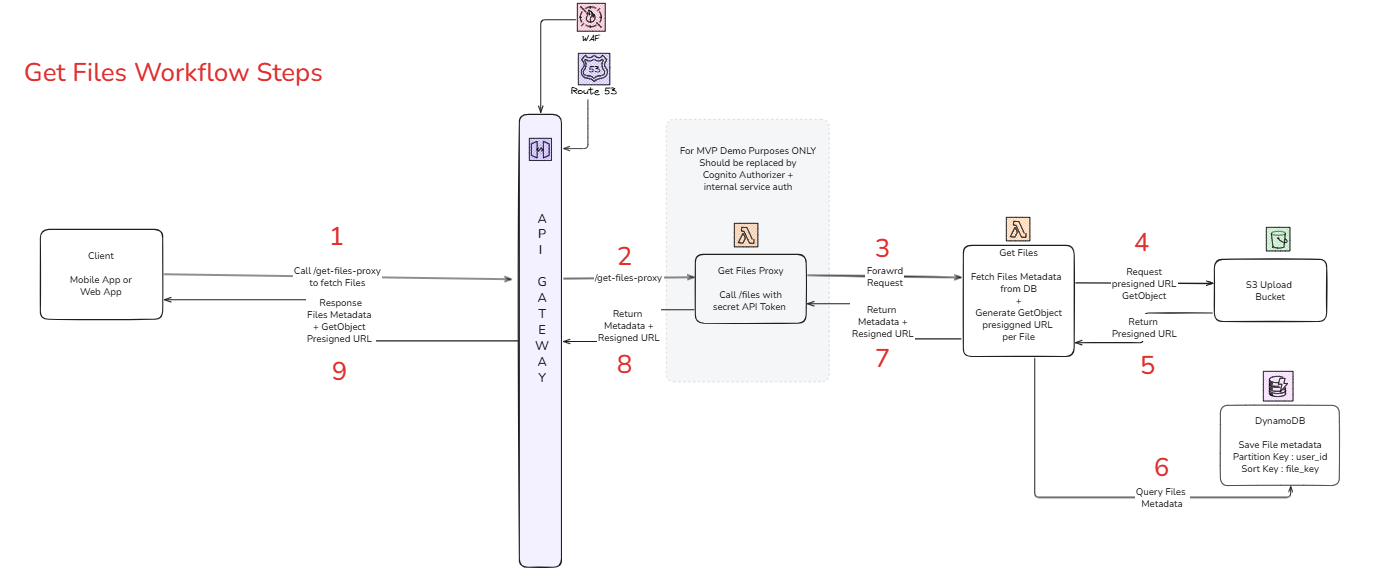
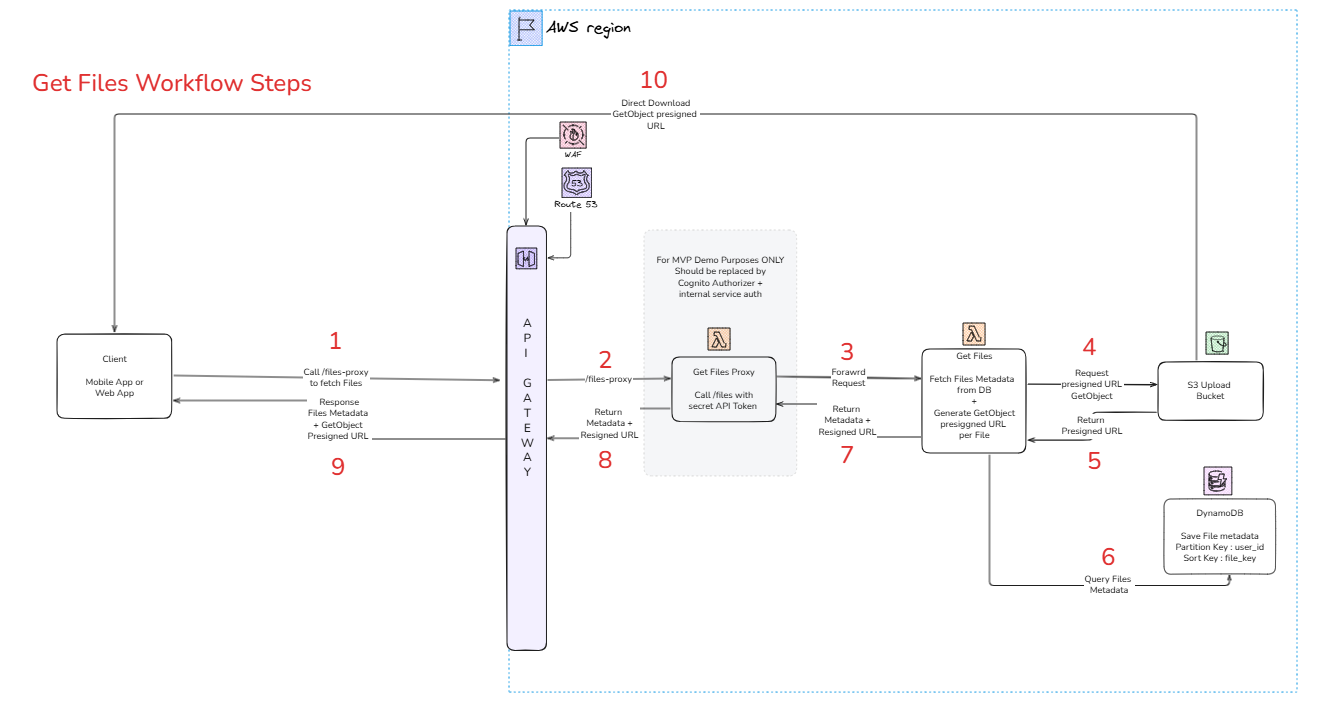
chore: bump file-uploader version to v1.7.0-beta.1
chore: file uploader v1.7.0-beta.1

fix: test latest changes in infra upload file

chore: file uploader module bump to v1.7.0-beta.2

chore: updated README

chore: clean up namings and README

chore: fix cicd pipeline name

diff --git a/README.md b/README.md
@@ -45,11 +45,6 @@ The architecture demonstrates a complete **upload and retrieval workflow**:
 - Content moderation with Rekognition
 - Infrastructure deployment via Terraform
 
-**Optional / extensible:**
-
-- Real user authentication (Cognito)
-- Pagination / infinite scroll in gallery UI
-
 ## Components Deployed
 
 ### File Uploader Backend
@@ -94,28 +89,46 @@ Imports the [content moderator module](https://github.com/lrasata/infra-s3-image
 
 <img src="docs/fetch-files-workflow.png" alt="fetch-files-workflow" width="1383">
 
+## Architectural Choices
+
+- **Serverless Stack**: AWS Lambda + API Gateway + S3 + DynamoDB provides a fully managed, scalable backend without the
+  overhead of provisioning servers.
+- **Presigned URLs**: Chosen for secure direct-to-S3 uploads/downloads, minimizing backend load and avoiding exposing
+  AWS credentials.
+- **Proxy Lambda**: Demonstrates internal request forwarding and secret management; in production this would be replaced
+  by Cognito Authorizer for authentication.
+- **Content Moderation**: AWS Rekognition allows automated detection of inappropriate content without maintaining custom
+  ML models.
+
 ## Security Considerations
 
-- Frontend never stores AWS credentials or secrets
-- Presigned URLs grant **scoped, temporary access**
-- Proxy Lambda forwards requests from Frontend to call protected endpoints by injecting API Token to the request; in production, use **Cognito Authorizer with JWTs**
+- Frontend never stores AWS credentials or secrets.
+- **Presigned URLs** are used for uploads and downloads, granting temporary, time-limited access to specific objects without exposing AWS credentials.
+- **API Protection**: Proxy Lambda hides secrets. Proxy Lambda forwards requests from Frontend to call protected endpoints by injecting API Token to the request; in production, use **Cognito Authorizer with JWTs**
+- **Encryption**: S3 buckets and SNS topics are encrypted using KMS keys.
 
-## Roadmap / Future Enhancements
+## Scalability
+
+- All components are serverless and automatically scale with demand; Lambda concurrency and S3/DynamoDB
+  throughput handle variable loads.
+
+## Future enhancements
 
 - Integrate **Cognito authentication**
 - Add **pagination & caching**
 - Add automated **unit & integration tests**
 
-## Prerequisites
+## How to deploy this infrastructure 
+### Prerequisites
 
 - AWS account with required permissions
 - Terraform v1.3+
 - AWS CLI configured locally
 - GitHub account (for CI/CD deployment)
 
-## Deployment
+### Deployment
 
-### 1. Local Deployment (Classic Configuration)
+#### 1. Local Deployment (Classic Configuration)
 
 You can run and test the stack locally by manually deploying the Terraform infrastructure:
 
@@ -128,7 +141,7 @@ terraform apply -var-file="staging.tfvars"
 
 Update env_config.dart in the Flutter project with the generated endpoints
 
-### 2. CI/CD Deployment (Recommended)
+#### 2. CI/CD Deployment (Recommended)
 
 - Workflow Apply Backend layers to Staging Env triggers Terraform deployment on staging
 - Builds Lambda packages
@@ -147,23 +160,3 @@ Update env_config.dart in the Flutter project with the generated endpoints
 | `TF_VAR_uploads_bucket_name`         | Hardcoded                  | S3 bucket name for uploads          |
 | `TF_VAR_secret_store_name`           | GitHub secret              | Secrets Manager store for API token |
 | `TF_VAR_notification_email`          | GitHub secret              | SNS alert email address             |
-
-### Architectural Choices
-
-- **Serverless Stack**: AWS Lambda + API Gateway + S3 + DynamoDB provides a fully managed, scalable backend without the
-  overhead of provisioning servers.
-- **Presigned URLs**: Chosen for secure direct-to-S3 uploads/downloads, minimizing backend load and avoiding exposing
-  AWS credentials.
-- **Content Moderation**: AWS Rekognition allows automated detection of inappropriate content without maintaining custom
-  ML models.
-- **Proxy Lambda**: Demonstrates internal request forwarding and secret management; in production this would be replaced
-  by Cognito Authorizer for authentication.
-
-### Security & Scalability
-
-- **Scoped Access**: Frontend never holds AWS credentials; presigned URLs limit actions and expiration time.
-- **API Protection**: Proxy Lambda hides secrets; in production, Cognito Authorizer with JWT tokens would secure API
-  Gateway endpoints.
-- **Encryption**: S3 buckets and SNS topics are encrypted using KMS keys; CloudWatch monitoring tracks unusual activity.
-- **Scalability**: All components are serverless and automatically scale with demand; Lambda concurrency and S3/DynamoDB
-  throughput handle variable loads.
